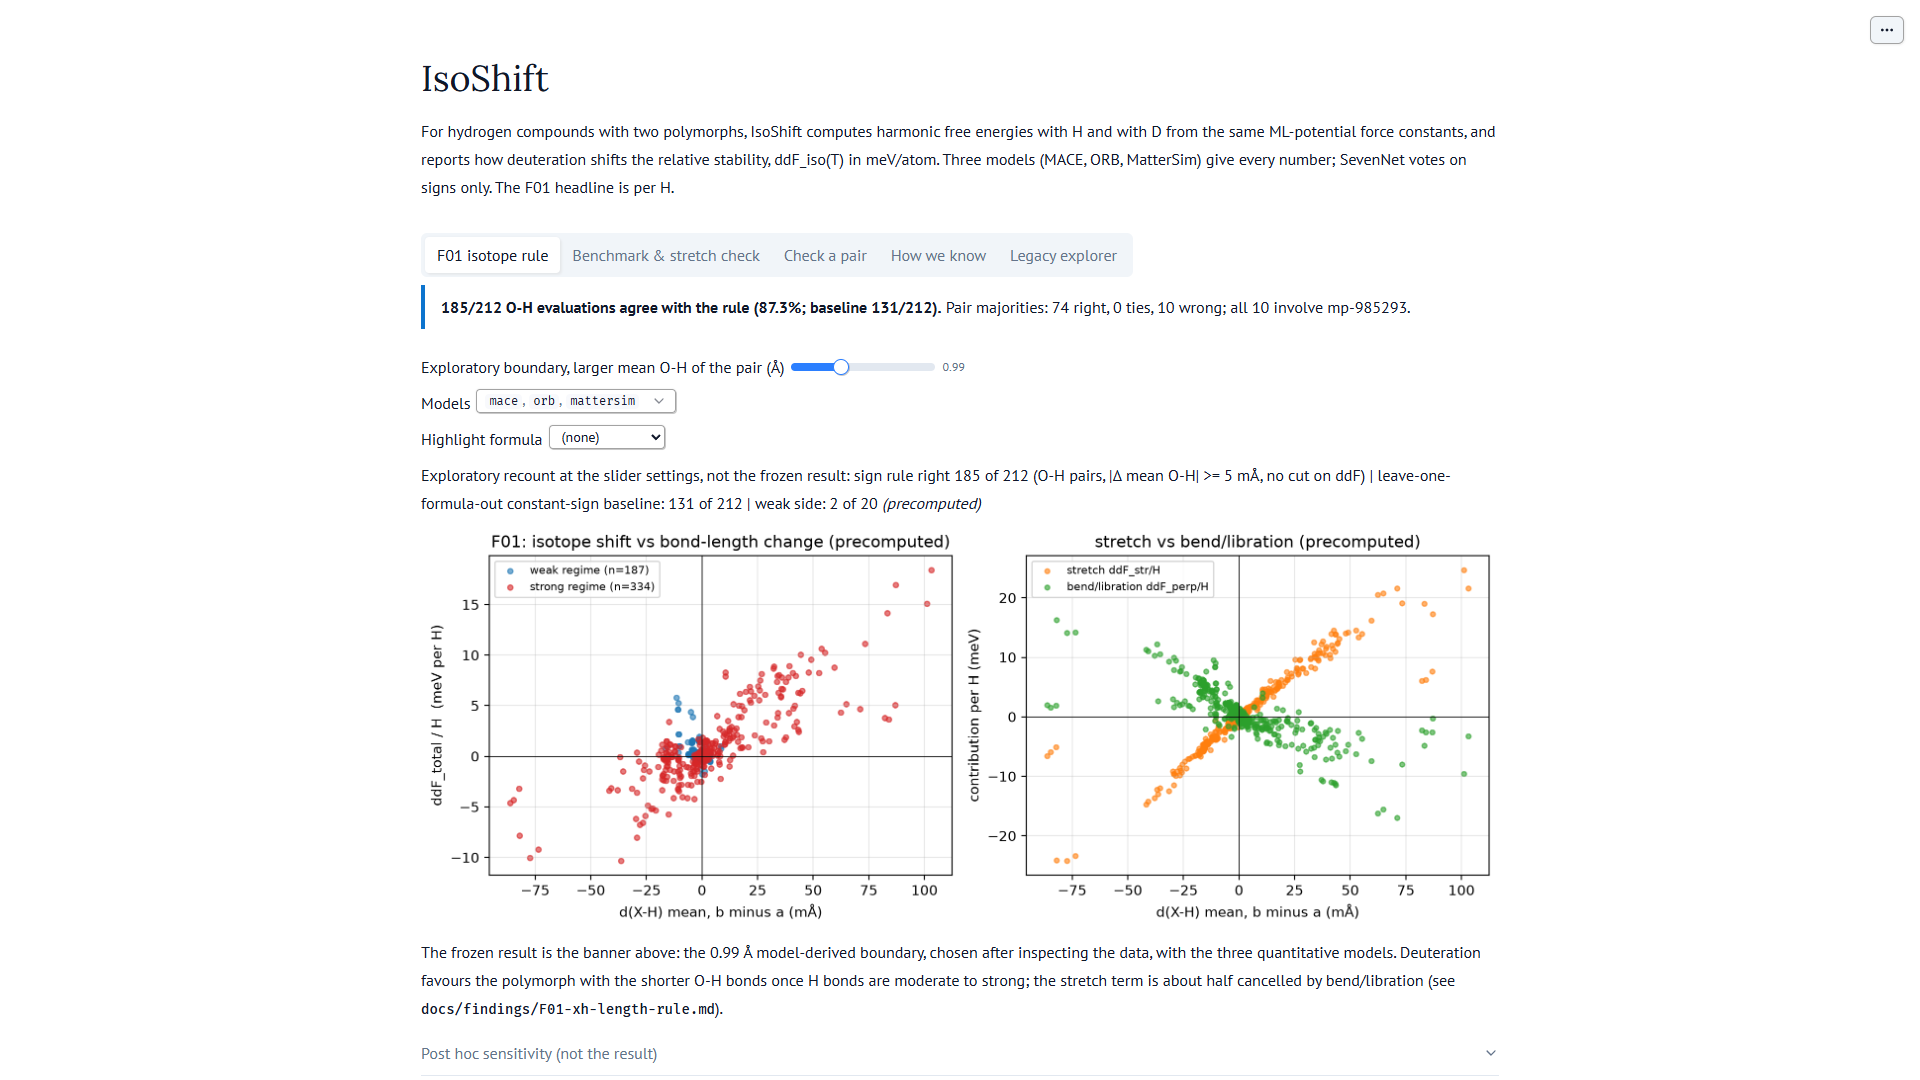
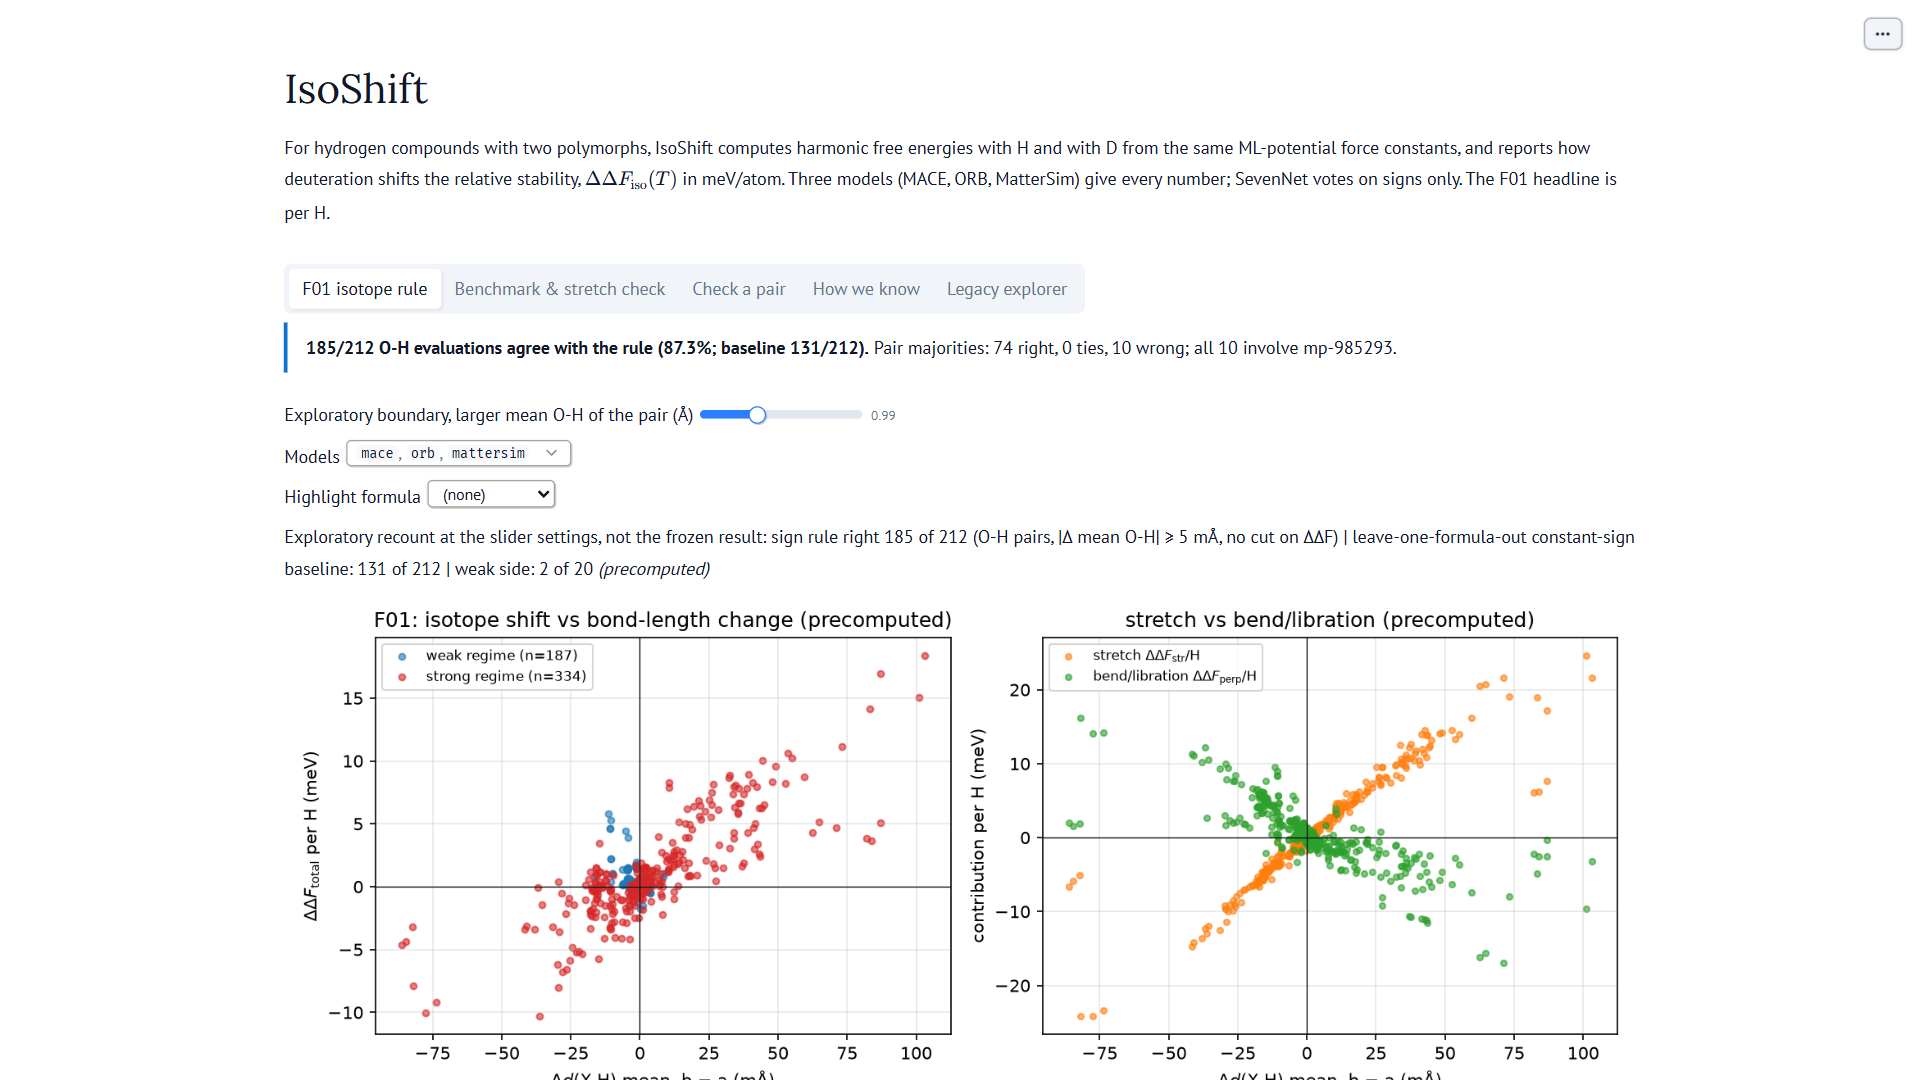
README, packet and LinkedIn post: video URL; app screenshots re-taken with the new formula rendering

diff --git a/README.md b/README.md
@@ -6,7 +6,7 @@ IsoShift computes harmonic H and D phonon free energies of crystal polymorphs wi
 > Headline numbers, CPU only: `python -m venv .venv`, activate it, `pip install -r requirements-judge.txt` (five packages, no torch, about two minutes), then `python -m src.isoshift_event.rule_cv`. The `oh_unfiltered_strong` line prints right 185, n 212, baseline 131 and pair majorities 74 right, 0 ties, 10 wrong. Setup: [How to run](#how-to-run).
 > App, no GPU: `marimo run app/isoshift_app.py` (inside the venv); the frozen banner and the tabs are at the top.
 > Evidence index: [docs/INDEX.md](docs/INDEX.md). Judge FAQ: [docs/FAQ.md](docs/FAQ.md).
-> Video: link added at upload.
+> Video (3:30): https://youtu.be/3gE5nxhLo80
 
 **Main finding (F01).** Across 220 hydrogen-compound polymorph pairs screened with three universal ML potentials, the harmonic H/D free-energy difference at 300 K changes by 0.11 to 0.13 meV per H for each mÅ difference in mean X-H length, a stretch term about half cancelled by bend and libration. When at least one polymorph has a mean model O-H length of 0.99 Å or more (a model-derived boundary for moderate to strong hydrogen bonds, chosen after inspecting the data), deuteration favours the polymorph with the shorter O-H bonds in 185 of 212 O-H model evaluations with |Δ mean O-H| ≥ 5 mÅ (84 pairs, 28 formulas), against 131 of 212 for a constant-sign baseline fitted on leave-one-formula-out training folds. By model majority 74 pairs are right and 10 are wrong, and all 10 wrong pairs contain one Al(OH)3 structure, mp-985293.
 

diff --git a/docs/story/linkedin_post.md b/docs/story/linkedin_post.md
@@ -15,7 +15,7 @@ Why it matters: neutron groups use deuterated delta-AlOOD as a stand-in for a po
 
 How it was done matters as much as what came out. An AI team did the work under my direction: literature agents on Valency Bond (182 logged queries), three-model councils for the hard calls, and prediction files committed to git before their data (one scoring rule, P04, was committed with its result). Some of those predictions failed, including a prospective test on new pairs, and the repo reports them with the same weight as the successes. This is a computational result; nobody has measured a polymorph isotope free energy yet, and the repo names the experiment that would.
 
-Video: [VIDEO LINK]
+Video: https://youtu.be/3gE5nxhLo80
 Code, data, interactive marimo app and every decision: https://github.com/canerganis/isoshift
 
 #materialsscience #machinelearning #isotopes #crystallography #OSIHackathon

diff --git a/docs/story/SUBMISSION_PACKET.md b/docs/story/SUBMISSION_PACKET.md
@@ -18,6 +18,8 @@ In harmonic calculations with three ML potentials, deuteration favours the polym
 
 ## (a) YouTube
 
+Video URL (paste into the Moment form): https://youtu.be/3gE5nxhLo80. Uploaded with the title and description of `docs/story/video/RECORDING.md` and `captions.srt` as English subtitles.
+
 Title:
 
 ```
